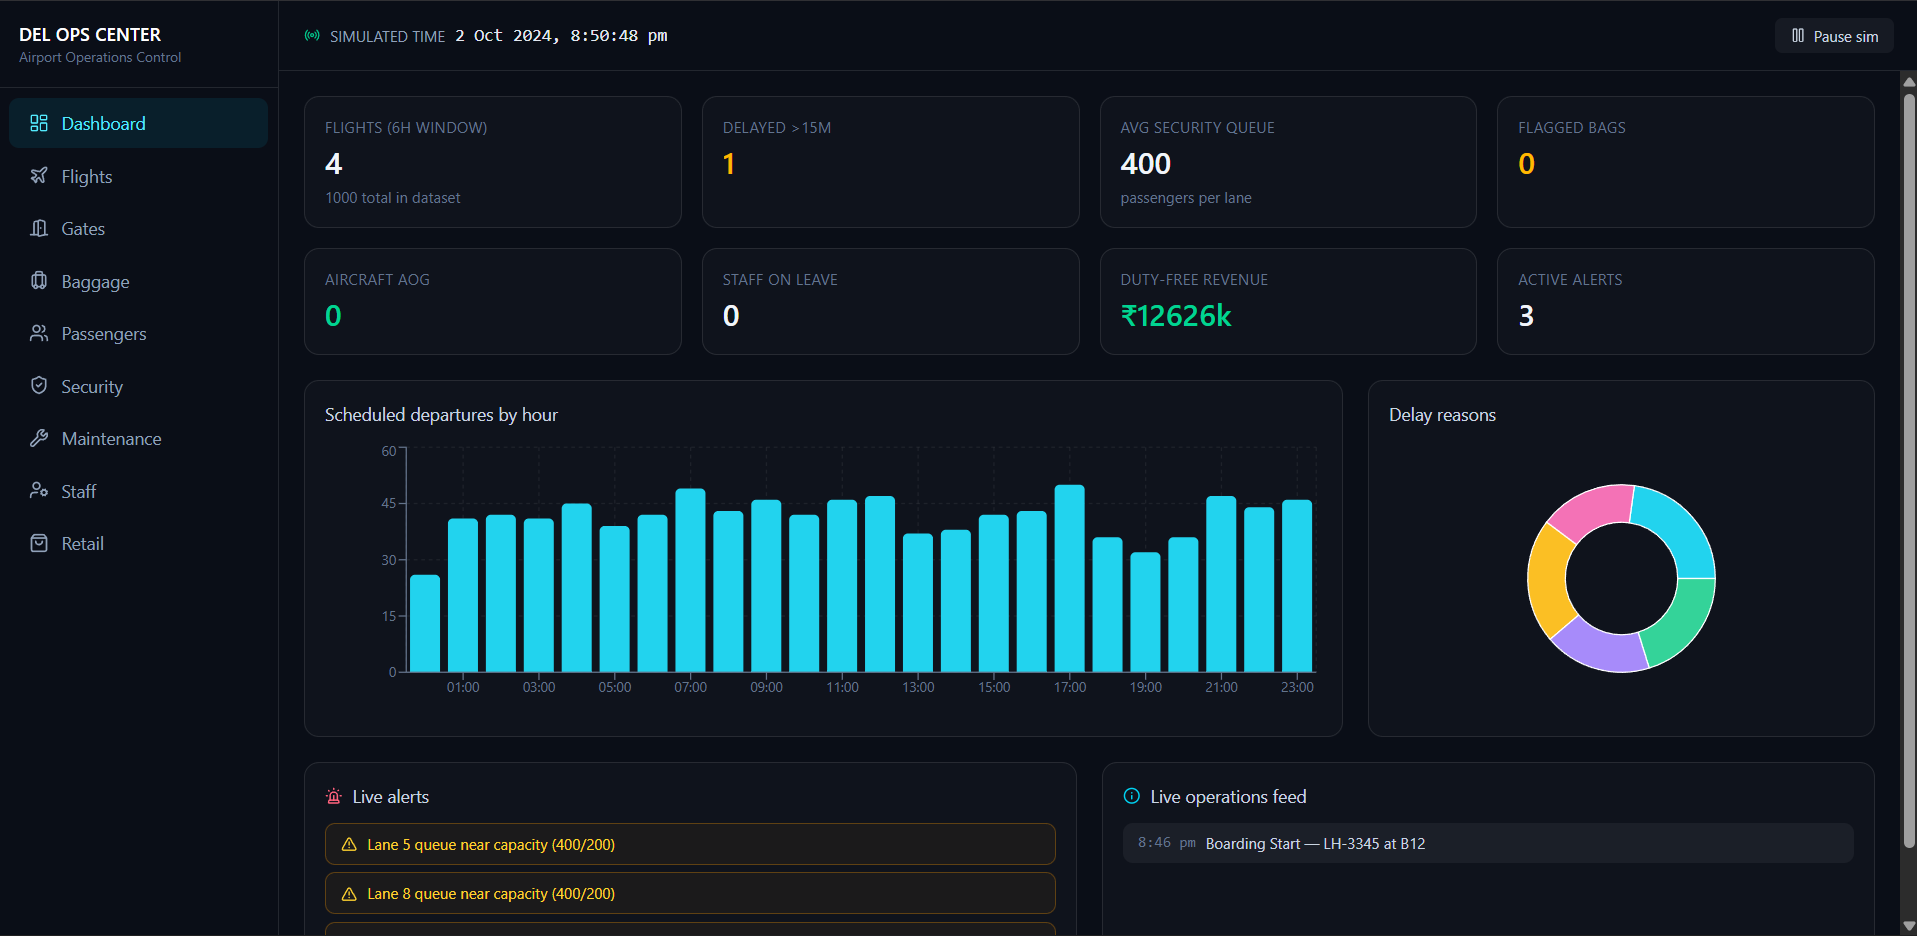
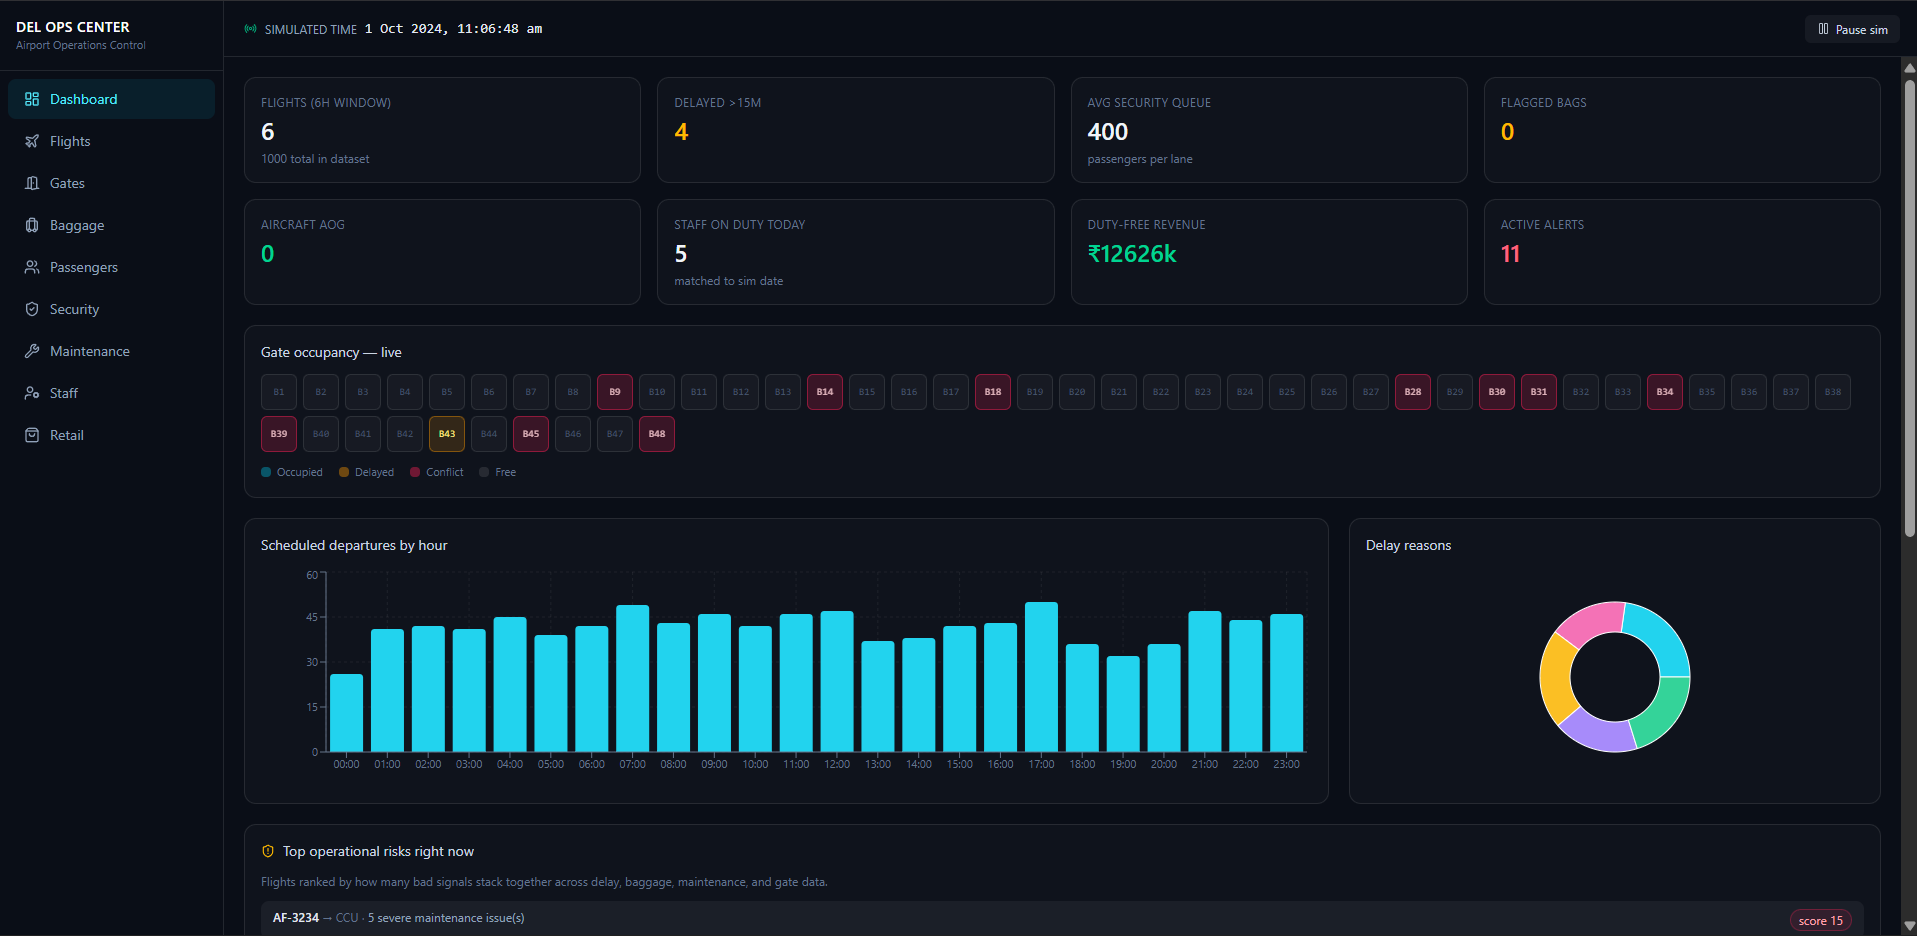
Updated Everything

diff --git a/README.md b/README.md
@@ -1,27 +1,171 @@
-# DEL Airport Operations Control Center — Frontend Wars 2026, Round 2
+# ✈ DEL Airport Operations Control Center — Frontend Wars 2026 Grand Finale
 
-## Stack
-React + TypeScript + Vite + Tailwind CSS v4 + Zustand + Recharts + Papaparse + React Router. No backend — all data is loaded client-side from the CSVs in `public/data`.
+> A production quality Airport Operations Control Center built for the **Frontend Wars 2026 Grand Finale**. The application transforms multiple airport datasets into a unified operational dashboard with simulated real-time updates, monitoring, alerts, and operational controls.
 
-## Run locally
-```
+## 🌐 Live Demo
+
+**Live:** https://airport-control-eight.vercel.app/
+
+## 📂 GitHub Repository
+
+**Repository:** https://github.com/anurag2882/airport-control.git
+
+## 📸 Preview
+
+
+![Dashboard Preview](./docs/dashboard.png)
+
+---
+
+# 🛠 Tech Stack
+
+- React
+- TypeScript
+- Vite
+- Tailwind CSS v4
+- Zustand
+- React Router
+- PapaParse
+- Recharts
+
+---
+
+# 🚀 Run Locally
+
+```bash
 npm install
 npm run dev
 ```
 
-## What's built
-- **Data layer**: raw CSVs shipped without column headers. Headers were reverse-engineered by profiling value patterns (see `SCHEMA_NOTES.md`) and baked into clean CSVs in `public/data`. Typed interfaces for all 8 tables live in `src/types`.
-- **Simulated live clock** (`src/store/useAirportStore.ts`): a virtual "now" sweeps through the dataset's real timestamp range (looping when it reaches the end), advancing every 1.5s. Alerts and the live feed are derived relative to that clock, so the app behaves like it's watching a live ops day rather than showing static rows.
-- **Dashboard**: KPI cards, delay-reason breakdown, hourly departure volume, live alerts panel, live operations feed.
-- **Flights**: searchable/sortable table, on-time/delayed filter, drill-down modal with full flight detail.
-- **Gates, Baggage, Passengers, Security, Maintenance, Staff, Retail**: dedicated operational views, each backed by the real dataset with search + sort via the shared `DataTable` component.
+---
 
-## What's still open (your 12-hour list)
-1. Cross-table drill-downs beyond Flights (e.g. click a flight -> see its passengers/baggage/gate events in one panel) — high value for "Data Integration" scoring.
-2. More alert types (gate conflicts, staff understaffing vs scheduled flights).
-3. Mobile nav / responsive pass (carried over pattern from Round 1 — same fix applies here).
-4. GitHub push + deploy (Vercel/Netlify) — same two steps you did last round.
-5. Read through the code before submission — same disqualification clause likely applies this round too.
+# ✨ Features
 
-## Schema assumptions
-See `SCHEMA_NOTES.md` for exactly which columns were inferred vs. clearly labeled, in case a judge asks you to justify a field name.
+### 📊 Dashboard
+
+- Airport-wide KPI cards
+- Live Operations Feed
+- Live Alerts Panel
+- Delay Reason Analytics
+- Hourly Departure Volume
+- Mission Control Dashboard
+
+### 📁 Data Layer
+
+- Raw CSV datasets cleaned and mapped into typed interfaces.
+- CSV parsing handled using PapaParse.
+- Strong TypeScript interfaces for every dataset.
+- All data is loaded client-side from `public/data`.
+
+### ⏱ Simulated Real-Time Engine
+
+- Virtual airport clock advancing every 1.5 seconds.
+- Dynamic flight status updates.
+- Live alerts generated relative to the simulated time.
+- Continuous event progression using the provided static dataset.
+
+### ✈ Flight Operations
+
+- Searchable flight table
+- Sortable columns
+- Flight status filters
+- On-time / Delayed filters
+- Detailed flight information modal
+
+### 🛫 Airport Operations Modules
+
+Dedicated operational views for:
+
+- Gates
+- Baggage
+- Passengers
+- Security
+- Maintenance
+- Staff
+- Retail
+
+Each module supports searching, sorting, and operational monitoring using the shared `DataTable` component.
+
+---
+
+# 📊 Data Integration
+
+Instead of treating each CSV independently, the application connects related operational data across multiple datasets.
+
+```
+Flight
+├── Gate Events
+├── Baggage
+├── Passengers
+├── Security
+├── Maintenance
+└── Staff
+```
+
+This creates a unified operational view rather than isolated dashboard pages.
+
+---
+
+# ⚡ Real-Time Simulation
+
+Although the supplied dataset is static, the application simulates a live airport environment through frontend logic.
+
+Features include:
+
+- Live status updates
+- Dynamic alerts
+- Event feed
+- Timeline progression
+- Operational monitoring
+- Auto-refreshing KPIs
+
+No backend or external APIs are used.
+
+---
+
+# 📂 Folder Structure
+
+```
+src/
+├── components/
+├── pages/
+├── store/
+├── lib/
+├── types/
+└── assets/
+
+public/
+└── data/
+
+docs/
+└── dashboard.png
+```
+
+---
+
+# 🚀 Future Improvements
+
+- Cross-table drill-downs connecting flights with baggage, passengers, and gate events.
+- Additional operational alerts such as gate conflicts and staff shortages.
+- Improved mobile navigation and responsiveness.
+- More advanced airport analytics and operational insights.
+
+---
+
+# 📖 Schema Assumptions
+
+Some datasets were provided without column headers.
+
+Headers were inferred by analysing value patterns and documented separately in `SCHEMA_NOTES.md`.
+
+These assumptions are documented to ensure transparency during judging.
+
+---
+
+# 👨💻 Author
+
+**Anurag Mishra**
+
+Built for **Frontend Wars 2026 Grand Finale**.
+
+---
